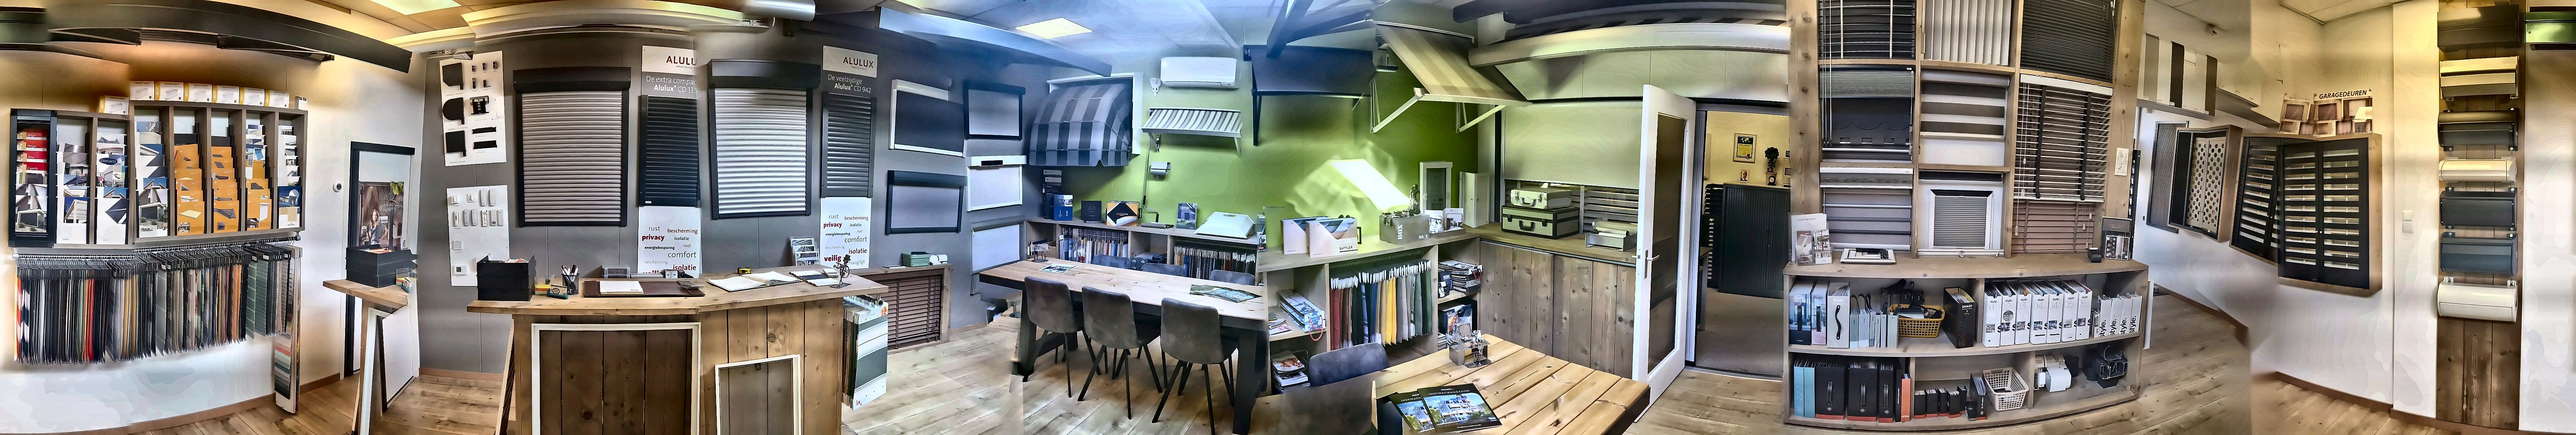
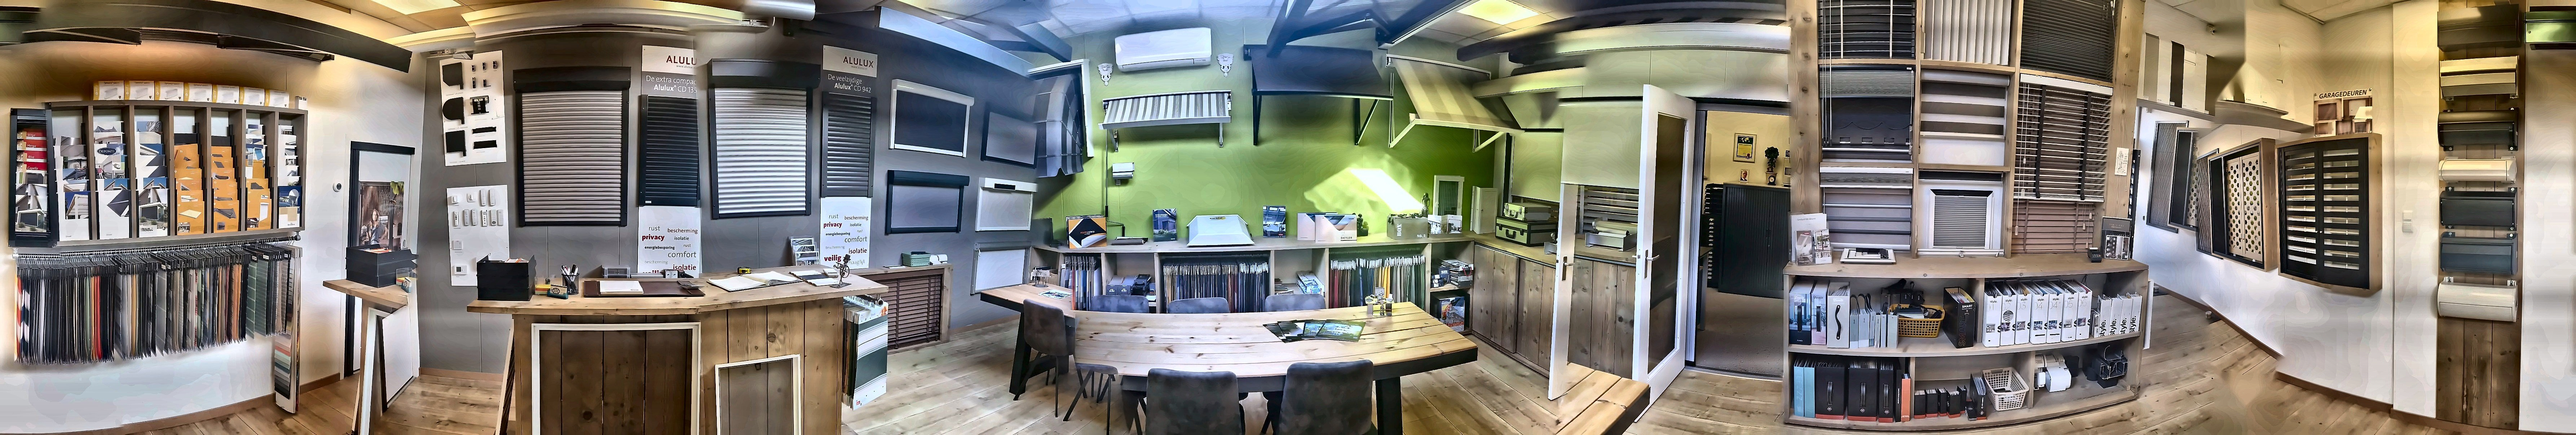
360 netjes bij tafel en ingang; SEO en vindbaarheid voor AI
- Panorama: tafel en deur komen uit één foto (geen naad door de stoelen),
  foto 9 uitgelijnd op de luiken van foto 10, foto 5 stopt waar foto 9
  begint: luik en ruitpaneel staan er nog één keer in.
- robots.txt wordt bij de build gemaakt: preview dicht, live open voor alle
  zoekmachines en AI-crawlers (GPTBot, ClaudeBot, PerplexityBot,
  Google-Extended e.a.) met sitemap.
- llms.txt: feitelijke samenvatting met contact, openingstijden en alle
  productpagina's.
- Gestructureerde data: HomeAndConstructionBusiness met KvK en
  productcatalogus; per productpagina een Service met ZBN als aanbieder.

Claude-Session: https://claude.ai/code/session_01HWyU4mNMnof86XrUuafZcf

diff --git a/src/pages/llms.txt.ts b/src/pages/llms.txt.ts
@@ -1,0 +1,34 @@
+// llms.txt: een korte, feitelijke samenvatting voor AI-assistenten (zie llmstxt.org), met links naar alle pagina's.
+// Alleen gegevens die ook op de site staan.
+import type { APIRoute } from 'astro';
+import { site, url, tijden, categorieen, perCategorie } from '../data/site';
+
+export const GET: APIRoute = ({ site: basis }) => {
+  const abs = (p: string) => new URL(url(p), basis).href;
+  const open = tijden.filter((t) => t.open).map((t) => `${t.naam} ${t.open} uur`).join(', ');
+  const tekst = [
+    `# ${site.naam} ${site.rechtsvorm} (${site.kort})`,
+    '',
+    `> Zonweringsbedrijf met eigen showroom in ${site.plaats}. Buiten- en binnenzonwering, rolluiken, garagedeuren en overkappingen op maat, ingemeten bij de klant thuis en gemonteerd door eigen monteurs.`,
+    '',
+    '## Contact',
+    `- Adres: ${site.straat}, ${site.postcode} ${site.plaats}`,
+    `- Telefoon: ${site.tel}`,
+    `- E-mail: ${site.mail}`,
+    `- KvK: ${site.kvk}`,
+    `- Showroom open: ${open}. Zondag gesloten.`,
+    `- Offerte aanvragen: ${abs('#offerte')}`,
+    '',
+    ...categorieen.flatMap((c) => [
+      `## ${c.naam}`,
+      `${c.kort}`,
+      `- [Alle ${c.naam.toLowerCase()}](${abs(`${c.slug}/`)})`,
+      ...perCategorie(c.categorie).map((p) => `- [${p.naam}](${abs(`producten/${p.slug}/`)}): ${p.kort}`),
+      '',
+    ]),
+    '## Overig',
+    `- [Privacyverklaring](${abs('privacy/')})`,
+    `- [Algemene voorwaarden](${abs('algemene-voorwaarden/')})`,
+  ];
+  return new Response(tekst.join('\n') + '\n', { headers: { 'Content-Type': 'text/plain; charset=utf-8' } });
+};

diff --git a/src/pages/robots.txt.ts b/src/pages/robots.txt.ts
@@ -1,0 +1,18 @@
+// robots.txt wordt bij de build gemaakt. Preview op github.io: niets indexeren. Live: alles open, ook voor
+// AI-zoekmachines (ChatGPT, Claude, Perplexity, Google AI), met de sitemap.
+import type { APIRoute } from 'astro';
+import { site, url } from '../data/site';
+
+const aiBots = ['GPTBot', 'OAI-SearchBot', 'ChatGPT-User', 'ClaudeBot', 'Claude-SearchBot', 'Claude-User', 'PerplexityBot', 'Perplexity-User', 'Google-Extended', 'Applebot-Extended', 'Bingbot'];
+
+export const GET: APIRoute = ({ site: basis }) => {
+  const regels = site.preview
+    ? ['# Preview: niet indexeren. Bij livegang (PUBLIC_PREVIEW leeg) gaat alles automatisch open.', 'User-agent: *', 'Disallow: /']
+    : [
+        'User-agent: *', 'Allow: /', '',
+        '# AI-zoekmachines en assistenten mogen de site lezen en citeren.',
+        ...aiBots.flatMap((b) => [`User-agent: ${b}`, 'Allow: /', '']),
+        `Sitemap: ${new URL(url('sitemap-index.xml'), basis).href}`,
+      ];
+  return new Response(regels.join('\n') + '\n', { headers: { 'Content-Type': 'text/plain; charset=utf-8' } });
+};

diff --git a/bron/showroom-360/maak.py b/bron/showroom-360/maak.py
@@ -1,4 +1,4 @@
-# 360-panorama van de showroom.
+# 360-panorama van de showroom. Gebruik: python3 maak.py <map met foto's> <uitmap> 1137 0.35 0.20, daarna ontwaas.py.
 # Alleen de foto's die vanaf het midden zijn genomen (10,11,0..5) vormen de ronde; foto 9 (van dichterbij, bij de
 # ingang) vult verkleind het smalle stuk tussen 5 en 10. Foto 6, 7 en 8 zijn van een andere plek en vallen af.
 import cv2, numpy as np, sys, os, functools
@@ -35,10 +35,10 @@ def opbouw(f):
     # positie van de kopie van foto 10 na een volle ronde, via 5 -> 9 -> 10
     A=np.vstack([M59,[0,0,1]])@np.vstack([M910,[0,0,1]])
     eind=pos[-1]+A[:2,2]
-    return war,pos,eind,M59,(n59,n910),A
+    return war,pos,eind,M59,(n59,n910),A,kd
 # brandpuntsafstand waarbij de ronde sluit (lineair tussen 1125 en 1150)
 f=float(sys.argv[3]) if len(sys.argv)>3 else 1137.0
-war,pos,eind,M59,n,_=opbouw(f); P=2*np.pi*f
+war,pos,eind,M59,n,_,kd=opbouw(f); P=2*np.pi*f
 print('f',f,'ronde',round(eind[0]),'P',round(P))
 pos=np.array(pos); sx=P/eind[0]; dy=eind[1]
 # rek de ronde zacht op tot precies 360 graden en verdeel de verticale drift lineair
@@ -48,12 +48,18 @@ imgs=[];masks=[];corners=[]
 for k,p in zip(RONDE,pos):
     img,m=war[k]; imgs.append(img); masks.append(m); corners.append((int(round(p[0])),int(round(p[1]))))
 img9,m9=war[VUL]; h9,w9=m9.shape
-M=M59.copy(); M[:,2]+=pos[RONDE.index(5)]
-hoeken=np.array([[0,0,1],[w9,0,1],[0,h9,1],[w9,h9,1]],float)@M.T
+GRENS=float(sys.argv[5]) if len(sys.argv)>5 else 0.0
+m9=m9.copy(); m9[:,:int(w9*GRENS)]=0
+p5=pos[RONDE.index(5)]; p10=pos[0]+np.array([P,0])
+b1,a1=matches(*kd[5],*kd[VUL]); b2,a2=matches(*kd[10],*kd[VUL])
+bron=np.vstack([b1,b2]); doel=np.vstack([a1+p5,a2+p10])
+Hm,inl=cv2.findHomography(bron,doel,cv2.RANSAC,6.0,maxIters=20000)
+i1=inl[:len(b1)].sum(); i2=inl[len(b1):].sum(); print('homografie 9: inliers op 5',int(i1),'op 10',int(i2))
+hoeken=cv2.perspectiveTransform(np.float32([[[0,0]],[[w9,0]],[[0,h9]],[[w9,h9]]]),Hm).reshape(-1,2)
 x0,y0=np.floor(hoeken.min(0)).astype(int); x1,y1=np.ceil(hoeken.max(0)).astype(int)
-Mt=M.copy(); Mt[:,2]-=[x0,y0]
-imgs.append(cv2.warpAffine(img9,Mt,(x1-x0,y1-y0),flags=cv2.INTER_AREA,borderMode=cv2.BORDER_REFLECT))
-masks.append(cv2.warpAffine(m9,Mt,(x1-x0,y1-y0),flags=cv2.INTER_NEAREST)); corners.append((int(x0),int(y0)))
+T=np.array([[1,0,-x0],[0,1,-y0],[0,0,1]],float)@Hm
+imgs.append(cv2.warpPerspective(img9,T,(x1-x0,y1-y0),flags=cv2.INTER_AREA,borderMode=cv2.BORDER_REFLECT))
+masks.append(cv2.warpPerspective(m9,T,(x1-x0,y1-y0),flags=cv2.INTER_NEAREST)); corners.append((int(x0),int(y0)))
 img,m=war[10]; imgs.append(img); masks.append(m); corners.append((int(round(pos[0][0]+P)),int(round(pos[0][1]))))
 N=len(imgs)
 # belichting/kleur: globale log-gains per kanaal over alle overlappende paren
@@ -80,8 +86,23 @@ for c in range(3):
     A[-1,:]=1; gains[:,c]=np.exp(np.linalg.lstsq(A,v,rcond=None)[0])
 print('gains',np.round(gains,2).tolist())
 imgs=[np.clip(im.astype(np.float32)*gains[idx[i]][None,None,:],0,255).astype(np.uint8) for i,im in enumerate(imgs)]
+# Tafel: de onderste helft tussen de randen van beeld 5 (foto 1) komt alleen uit dat beeld,
+# zodat er geen naad door de tafel en stoelen loopt (die staan dichtbij en verschuiven tussen foto's).
+T=5; tx0=corners[T][0]+90; tx1=corners[T][0]+masks[T].shape[1]-90
+for i in (4,6):
+    c=corners[i]; m=masks[i].copy(); h,w=m.shape
+    yy=np.arange(h)+c[1]; xx=np.arange(w)+c[0]
+    # beeld 6 (met de deur) helemaal, beeld 4 alleen onder de horizon
+    rij=yy>=(corners[T][1]+masks[T].shape[0]*0.48 if i==4 else -1e9); kol=(xx>=tx0)&(xx<tx1)
+    m[np.ix_(rij,kol)]=0
+    if i==4: m[:,xx>=tx0+650]=0   # deur alleen uit beeld 5
+    masks[i]=m
+# Ingang: het ruitpaneel alleen uit foto 9; beeld 7 (foto 5) stopt waar foto 9 begint.
+m9=masks[8]; kolom9=np.where(m9[m9.shape[0]//2]>0)[0]; links9=corners[8][0]+kolom9.min()+60
+c=corners[7]; m=masks[7].copy(); xx=np.arange(m.shape[1])+c[0]; m[:,xx>links9]=0; masks[7]=m
+print('foto 5 stopt bij',links9)
 # naden en meerbandig mengen
-sc=0.35
+sc=float(sys.argv[4]) if len(sys.argv)>4 else 0.5
 ki=[cv2.resize(i,None,fx=sc,fy=sc).astype(np.float32) for i in imgs]
 km=[cv2.UMat(cv2.resize(m,None,fx=sc,fy=sc,interpolation=cv2.INTER_NEAREST)) for m in masks]
 kc=[(int(c[0]*sc),int(c[1]*sc)) for c in corners]
@@ -106,4 +127,4 @@ strook=np.clip(f32,0,255).astype(np.uint8)
 lab=cv2.cvtColor(strook,cv2.COLOR_BGR2LAB); l,a,b=cv2.split(lab)
 l=cv2.createCLAHE(clipLimit=1.15,tileGridSize=(8,40)).apply(l); strook=cv2.cvtColor(cv2.merge([l,a,b]),cv2.COLOR_LAB2BGR)
 blur=cv2.GaussianBlur(strook,(0,0),1.6); strook=cv2.addWeighted(strook,1.3,blur,-0.3,0)
-cv2.imwrite(f'{uit}/pano.jpg',strook,[cv2.IMWRITE_JPEG_QUALITY,92]); print('pano',strook.shape)
+cv2.imwrite(f'{uit}/pano8.jpg',strook,[cv2.IMWRITE_JPEG_QUALITY,92]); print('pano',strook.shape)
